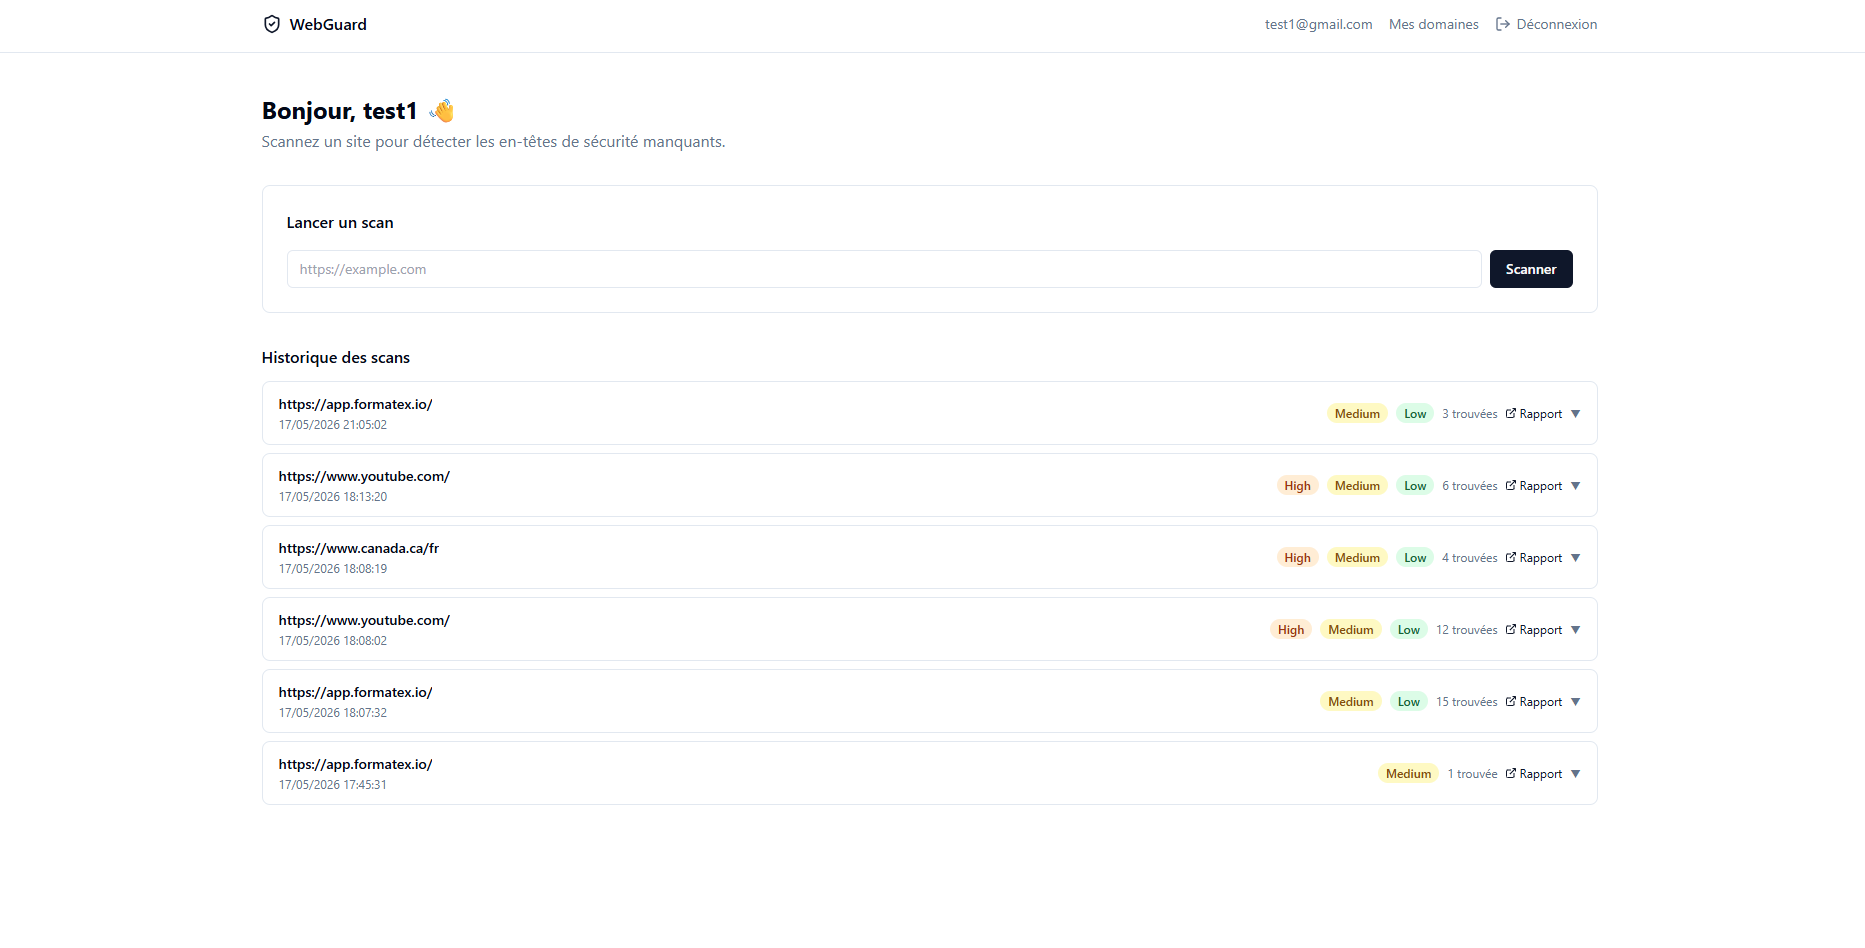
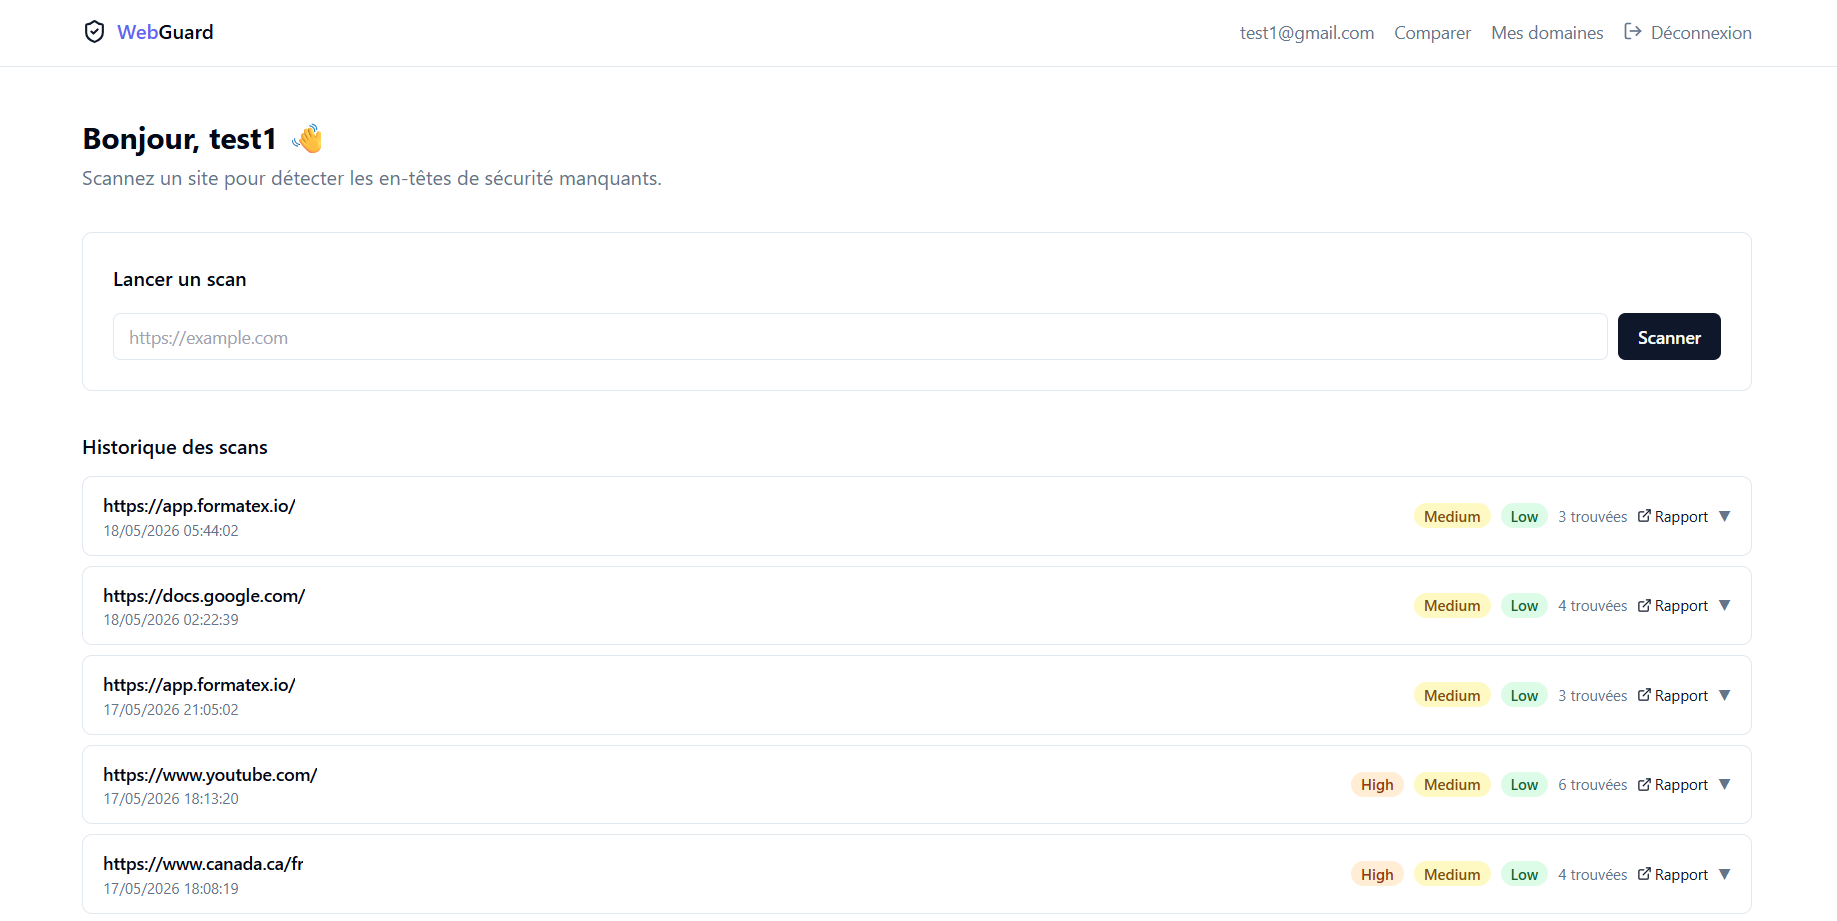
docs(screenshots): refresh UI captures + add scan-diff and email screenshots

diff --git a/README.md b/README.md
@@ -45,6 +45,14 @@ L'utilisateur soumet une URL → le système scanne → génère un rapport PDF/
 
 ![Rapport PDF](docs/screenshots/pdf-report.png)
 
+### Comparaison de scans
+
+![Scan diff](docs/screenshots/scan-diff.png)
+
+### Notification email (Mailpit en dev)
+
+![Email Mailpit](docs/screenshots/email-mailpit.png)
+
 ---
 
 ## Quick Start